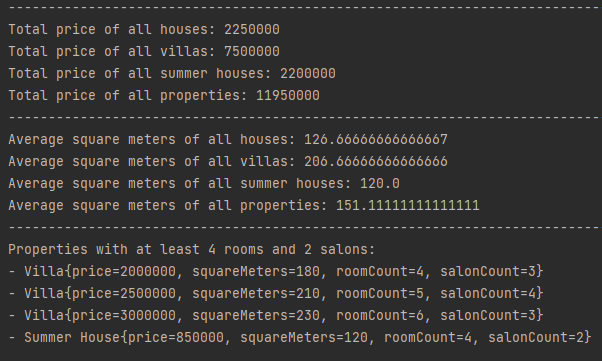
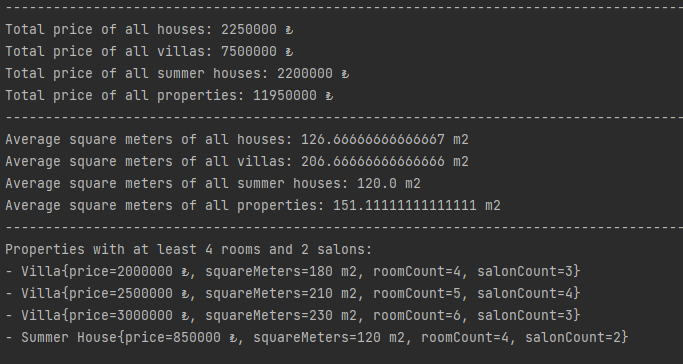
added code improvements.

diff --git a/src/main/java/com/keremcengiz0/HouseTypeApp/HouseTypeAppApplication.java b/src/main/java/com/keremcengiz0/HouseTypeApp/HouseTypeAppApplication.java
@@ -43,15 +43,15 @@ public class HouseTypeAppApplication {
 		realEstateService.addSummerHouse(summerHouse3);
 
 		System.out.println("-------------------------------------------------------------------------------------");
-		System.out.println("Total price of all houses: " + realEstateService.getTotalPriceHouses());
-		System.out.println("Total price of all villas: " + realEstateService.getTotalPriceVillas());
-		System.out.println("Total price of all summer houses: " + realEstateService.getTotalPriceSummerHouses());
-		System.out.println("Total price of all properties: " + realEstateService.getTotalPriceAll());
+		System.out.println("Total price of all houses: " + realEstateService.getTotalPriceHouses() + " ₺");
+		System.out.println("Total price of all villas: " + realEstateService.getTotalPriceVillas() + " ₺");
+		System.out.println("Total price of all summer houses: " + realEstateService.getTotalPriceSummerHouses() + " ₺");
+		System.out.println("Total price of all properties: " + realEstateService.getTotalPriceAll() + " ₺");
 		System.out.println("-------------------------------------------------------------------------------------");
-		System.out.println("Average square meters of all houses: " + realEstateService.getAverageSquareHouses());
-		System.out.println("Average square meters of all villas: " + realEstateService.getAverageSquareVillas());
-		System.out.println("Average square meters of all summer houses: " + realEstateService.getAverageSquareSummerHouses());
-		System.out.println("Average square meters of all properties: " + realEstateService.getAverageSquareAll());
+		System.out.println("Average square meters of all houses: " + realEstateService.getAverageSquareHouses() + " m2");
+		System.out.println("Average square meters of all villas: " + realEstateService.getAverageSquareVillas() + " m2");
+		System.out.println("Average square meters of all summer houses: " + realEstateService.getAverageSquareSummerHouses() + " m2");
+		System.out.println("Average square meters of all properties: " + realEstateService.getAverageSquareAll() + " m2");
 		System.out.println("-------------------------------------------------------------------------------------");
 
 		List<BaseEntity> filteredProperties = realEstateService.filterByRoomAndSalonCount(4, 2);

diff --git a/src/main/java/com/keremcengiz0/HouseTypeApp/entities/SummerHouse.java b/src/main/java/com/keremcengiz0/HouseTypeApp/entities/SummerHouse.java
@@ -13,8 +13,8 @@ public class SummerHouse extends BaseEntity{
     @Override
     public String toString() {
         return "Summer House{" +
-                "price=" + getPrice() +
-                ", squareMeters=" + getSquareMeters() +
+                "price=" + getPrice() + " ₺" +
+                ", squareMeters=" + getSquareMeters() + " m2" +
                 ", roomCount=" + getRoomCount() +
                 ", salonCount=" + getSalonCount() +
                 '}';

diff --git a/src/main/java/com/keremcengiz0/HouseTypeApp/entities/House.java b/src/main/java/com/keremcengiz0/HouseTypeApp/entities/House.java
@@ -10,8 +10,8 @@ public class House extends BaseEntity {
     @Override
     public String toString() {
         return "House{" +
-                "price=" + getPrice() +
-                ", squareMeters=" + getSquareMeters() +
+                "price=" + getPrice() + " ₺" +
+                ", squareMeters=" + getSquareMeters() + " m2" +
                 ", roomCount=" + getRoomCount() +
                 ", salonCount=" + getSalonCount() +
                 '}';

diff --git a/src/main/java/com/keremcengiz0/HouseTypeApp/entities/Villa.java b/src/main/java/com/keremcengiz0/HouseTypeApp/entities/Villa.java
@@ -11,8 +11,8 @@ public class Villa extends BaseEntity{
     @Override
     public String toString() {
         return "Villa{" +
-                "price=" + getPrice() +
-                ", squareMeters=" + getSquareMeters() +
+                "price=" + getPrice() + " ₺" +
+                ", squareMeters=" + getSquareMeters() + " m2" +
                 ", roomCount=" + getRoomCount() +
                 ", salonCount=" + getSalonCount() +
                 '}';
